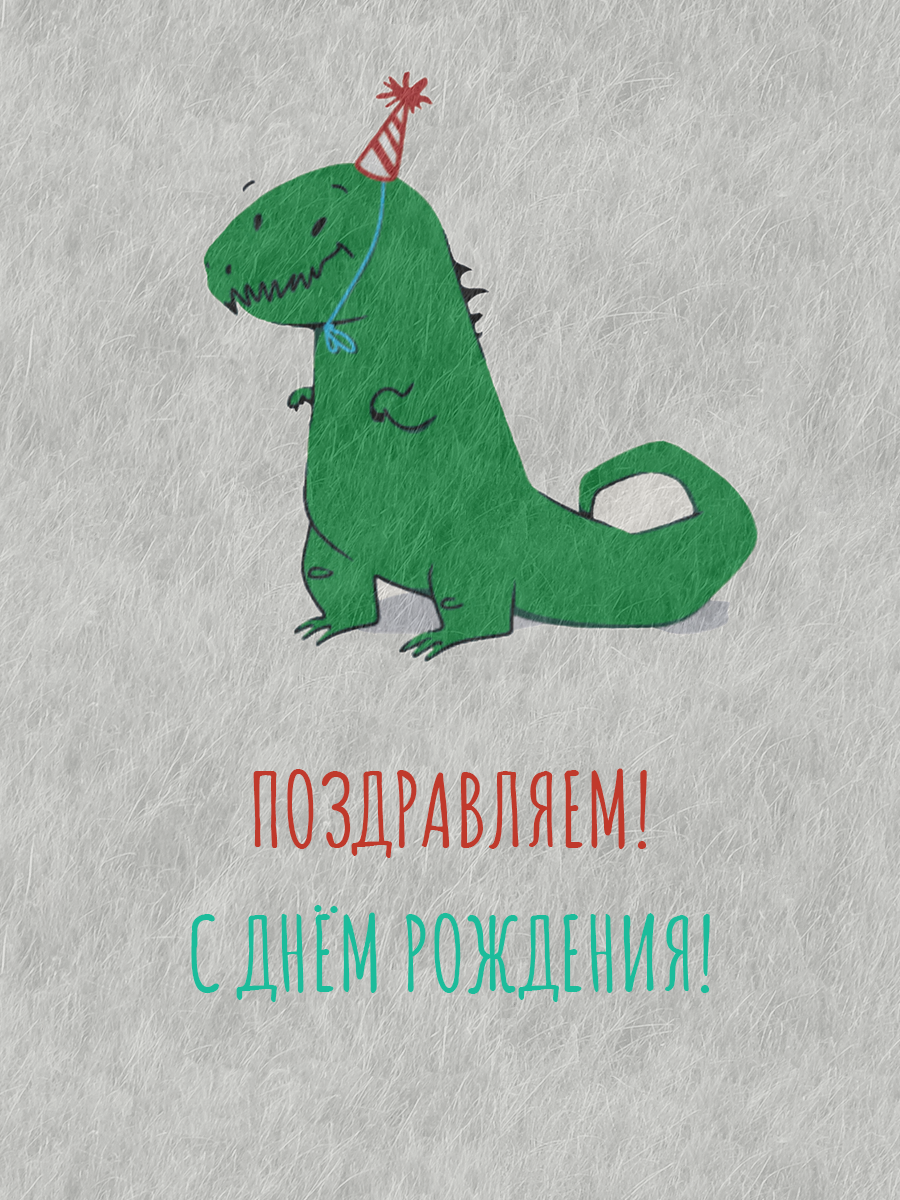
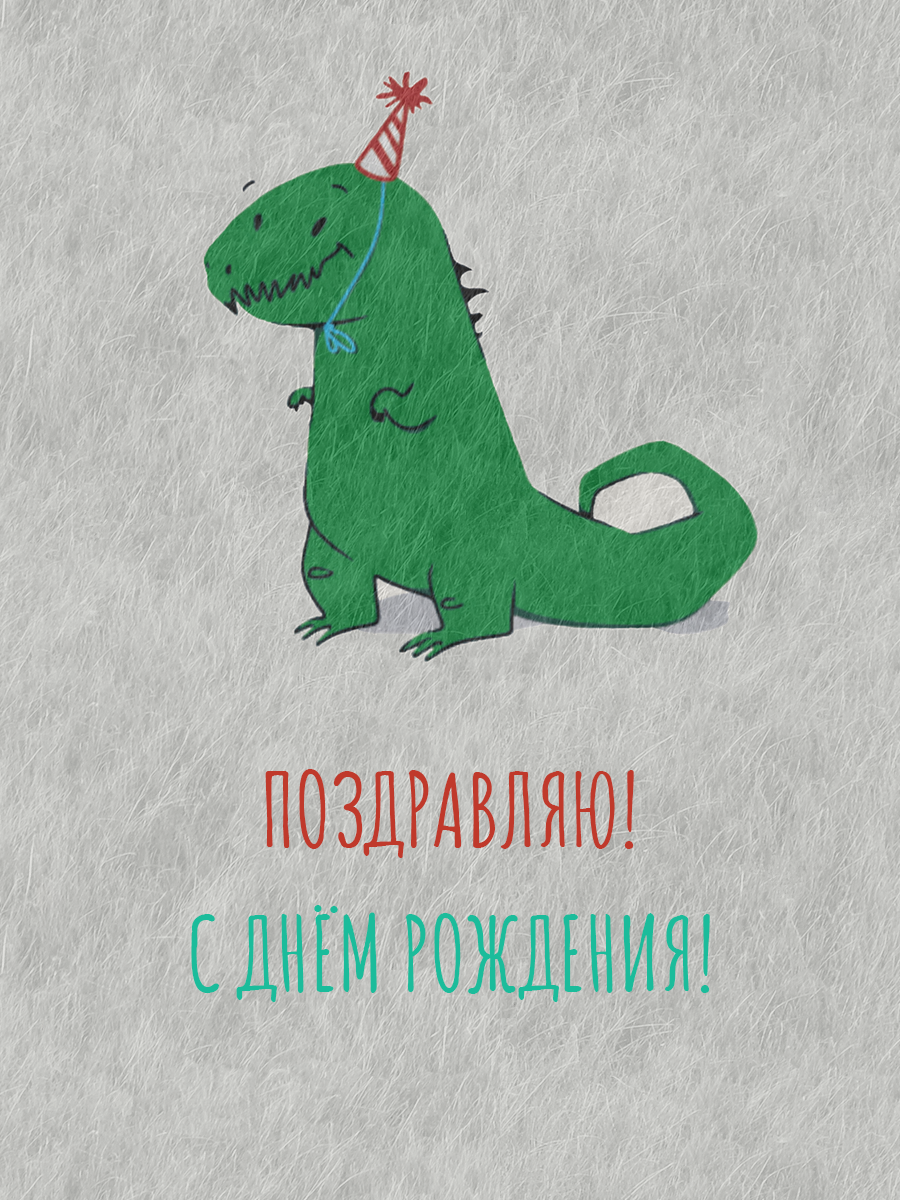
fix

Changed region(s): [[0.28, 0.6167, 0.7156, 0.7092]]

diff --git a/index.html b/index.html
@@ -19,12 +19,13 @@
       <h4 class="color1">С днём рождения</h4>
       <h4 class="color2">(это важно)</h4>
       <p>С каждым годом всё ближе пенсия.</p>
-      <p>Желаем встретить её со своими</p>
-      <p>зубами, с морщинами только от смеха,</p>
+      <p>Желаю встретить её со своими</p>
+      <p>зубами, с морщинками только от смеха,</p>
       <p>в трезвом уме и при своей памяти!</p>
-      <p>Живи и молодей!</p>
-      <p class="text-right">С любовью, ♥</p>
-      <p class="text-right">Саша и Маша</p>
+      <p>Кайфуй каждый день!</p>
+      <p class="text-right">P.S. это лучшее, что я</p>
+      <p class="text-right">сделал за сегодня 😉</p>
+      <p class="text-right">Санчо</p>
     </div>
   </div>
   <canvas id="c"></canvas>
